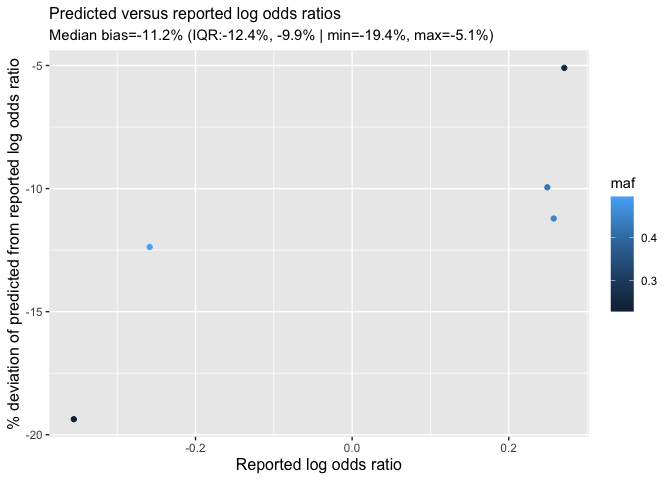
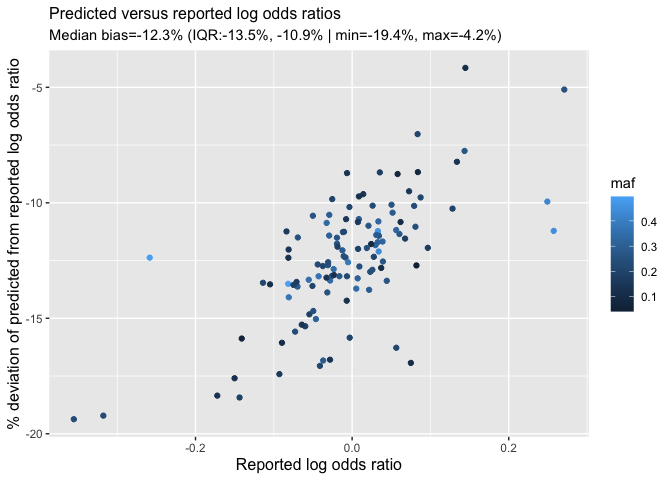
updated readme

diff --git a/README.md b/README.md
@@ -28,11 +28,10 @@ devtools::install_github("MRCIEU/mrQC")
 This package exploits three groups of SNPs: 1) **A MAF 1KG reference
 set**. This is a set of 2297 SNPs that have the same minor allele across
 the 1000 genomes super populations and that have a minor allele
-frequency between 0.1 and 0.3. These SNPs are used to check for allele
-frequency errors; 2) **GWAS catalog top hits**. These are SNPs in the
-GWAS catalog that are strongly associated with the outcome trait of
-interest; and 3) the **exposure SNPs** or genetic instruments for the
-exposure of interest.
+frequency between 0.1 and 0.3; 2) **GWAS catalog top hits**. These are
+SNPs in the GWAS catalog that are strongly associated with the outcome
+trait of interest; and 3) the **exposure SNPs** or genetic instruments
+for the exposure of interest.
 
 The package performs 4 types of checks:
 
@@ -60,14 +59,17 @@ number of retrieved hits.
 
 ``` r
 library(mrQC)
-snplist<-make_snplist(efo="glioma",trait="glioma",ref1000G_superpops=FALSE) #search on EFO abd reported trait 
+snplist<-make_snplist(efo="glioma",trait="glioma",ref1000G_superpops=FALSE)
 head(snplist)
+#> [1] "rs2736100" "rs2853676" "rs891835"  "rs4295627" "rs4977756" "rs498872"
 length(snplist)
+#> [1] 54
 ```
 
 We see that searching on the glioma EFO and glioma trait retrieves 54
-unique SNP rsids. We could also have searched on the glioma efo\_id,
-which retrieves the same SNPs as searching on the “glioma” efo.
+unique SNP rsids. We could also have searched on the glioma efo\_id
+(EFO\_0005543), which would have retrieved the same SNPs as searching on
+the “glioma” efo.
 
 ``` r
 snplist<-make_snplist(efo_id="EFO_0005543",ref1000G_superpops=FALSE) 
@@ -83,23 +85,28 @@ frequency of
 ``` r
 snplist<-make_snplist(efo="glioma",trait="glioma",ref1000G_superpops=TRUE) 
 head(snplist)
+#> [1] "rs2736100" "rs2853676" "rs891835"  "rs4295627" "rs4977756" "rs498872"
 length(snplist)
+#> [1] 2351
 ```
 
-We can also define a set of “exposure SNPs” and include this in list of
-rsids. For example, let’s assume we are conducting a Mendelian
+We can also define a set of “exposure SNPs” and include this in the list
+of rsids. For example, let’s assume we are conducting a Mendelian
 randomisation study to assess the effect of polyunsaturated fatty acid
 exposure on risk of glioma. Let’s define the “exposure SNPs”, or genetic
 instrument, as SNPs associated with polyunsaturated fatty acids with a P
 value \<5e-8. Let’s use the ieugwasr package to extract “exposure SNPs”
 for polyunsaturated fatty acids from the Open GWAS project and also add
-these to the other SNPs.
+these to the SNP list.
 
 ``` r
 instruments<-ieugwasr::tophits(id="met-d-PUFA",pval = 5e-08)
+#> API: public: http://gwas-api.mrcieu.ac.uk/
 snplist<-make_snplist(efo = "glioma",trait="glioma",ref1000G_superpops=TRUE,snplist_user=instruments$rsid)
 head(snplist)
+#> [1] "rs2736100" "rs2853676" "rs891835"  "rs4295627" "rs4977756" "rs498872"
 length(snplist)
+#> [1] 2417
 ```
 
 Our SNP list now contains the rsids for: 1) the GWAS catalog top hits,
@@ -113,7 +120,29 @@ MAC or linux operating systems.
 File<-system.file("extdata", "glioma_test_dat.txt", package = "mrQC")
 gli<-extract_snps(snplist=snplist,path_to_target_file=File,path_to_target_file_sep="\t")
 dim(gli)
+#> [1] 115  16
 head(gli)
+#>       Locus Allele1 Allele2         MAF                Geno_Counts  Subjects
+#> 1 rs6010620       G       A 0.229|0.175  2969|1698|287/1254|554|48 4954|1856
+#> 2 rs2736100       G       T 0.506|0.437 1211|2465|1273/594|900|360 4949|1854
+#> 3 rs2157719       A       G 0.450|0.511 1508|2428|1013/454|905|495 4949|1854
+#> 4 rs4977756       A       G 0.423|0.481  1669|2374|908/509|905|438 4951|1852
+#> 5 rs2853676       G       A 0.250|0.311  2795|1835|321/874|808|172 4951|1854
+#> 6 rs2297440       C       T 0.223|0.175  2668|1458|244/1039|455|42 4370|1536
+#>          p     OR OR_95._CI_l OR_95._CI_u CHROMOSOME LOCATION controls cases
+#> 1 1.13e-10 0.7009      0.6289      0.7812         20 61780283     4954  1856
+#> 2 4.28e-09 0.7722      0.7082      0.8420          5  1339516     4949  1854
+#> 3 4.57e-09 1.2936      1.1866      1.4102          9 22023366     4949  1854
+#> 4 1.21e-08 1.2831      1.1774      1.3982          9 22058652     4951  1852
+#> 5 2.16e-08 1.3112      1.1922      1.4420          5  1341547     4951  1854
+#> 6 1.49e-07 0.7278      0.6462      0.8198         20 61782743     4370  1536
+#>   eaf.controls path_to_target_file
+#> 1        0.229 glioma_test_dat.txt
+#> 2        0.506 glioma_test_dat.txt
+#> 3        0.450 glioma_test_dat.txt
+#> 4        0.423 glioma_test_dat.txt
+#> 5        0.250 glioma_test_dat.txt
+#> 6        0.223 glioma_test_dat.txt
 ```
 
 In the above example, the summary data for glioma was stored locally on
@@ -125,11 +154,31 @@ run:
 
 ``` r
 snplist<-make_snplist(efo = "thyroid carcinoma",trait="thyroid carcinoma",ref1000G_superpops=TRUE,snplist_user=instruments$rsid)
+#> Warning in gwas_catalog_hits(trait = trait): search for trait - thyroid
+#> carcinoma - returned 0 studies from the GWAS catalog
 head(snplist)
+#> [1] "rs965513"    "rs944289"    "rs966423"    "rs2439302"   "rs116909374"
+#> [6] "rs6759952"
 length(snplist)
+#> [1] 2397
 thy <- ieugwasr::associations(id="ieu-a-1082", variants=snplist,proxies=0)  
 dim(thy)
+#> [1] 146  12
 thy
+#> # A tibble: 146 x 12
+#>        se position     n chr       p    beta id    rsid  ea    nea     eaf trait
+#>     <dbl>    <int> <int> <chr> <dbl>   <dbl> <chr> <chr> <chr> <chr> <dbl> <chr>
+#>  1 0.104    2.75e7  1187 12    0.826 -0.0229 ieu-… rs11… A     G     0.200 Thyr…
+#>  2 0.0934   6.34e7  1187 3     0.526 -0.0592 ieu-… rs68… C     T     0.271 Thyr…
+#>  3 0.0891   8.64e7  1187 4     0.754  0.0279 ieu-… rs46… G     A     0.676 Thyr…
+#>  4 0.0953   9.20e6  1187 5     0.764 -0.0286 ieu-… rs14… G     A     0.256 Thyr…
+#>  5 0.106    1.25e8  1187 10    0.354 -0.0977 ieu-… rs10… T     C     0.190 Thyr…
+#>  6 0.104    1.26e7  1187 11    0.461  0.0768 ieu-… rs10… G     A     0.803 Thyr…
+#>  7 0.119    8.15e6  1187 4     0.811  0.0286 ieu-… rs12… C     T     0.144 Thyr…
+#>  8 0.0886   1.65e8  1187 4     0.717 -0.0321 ieu-… rs10… C     T     0.327 Thyr…
+#>  9 0.104    1.24e8  1187 5     0.187  0.137  ieu-… rs48… T     C     0.802 Thyr…
+#> 10 0.133    4.07e7  1187 8     0.400  0.112  ieu-… rs78… G     A     0.112 Thyr…
+#> # … with 136 more rows
 ```
 
 The make\_snplist() function returns a warning that no GWAS hits were
@@ -145,6 +194,41 @@ functions.
 ``` r
 Dat<-format_data(dat=gli,outcome="Glioma",population="European",pmid=22886559,study="GliomaScan",ncase="cases",ncontrol="controls",UKbiobank=FALSE,rsid="Locus",effect_allele="Allele1",other_allele="Allele2",or="OR",lci="OR_95._CI_l",uci="OR_95._CI_u",eaf="eaf.controls",p="p",efo="glioma")
 head(Dat)
+#>        rsid effect_allele other_allele         MAF                Geno_Counts
+#> 1 rs6010620             G            A 0.229|0.175  2969|1698|287/1254|554|48
+#> 2 rs2736100             G            T 0.506|0.437 1211|2465|1273/594|900|360
+#> 3 rs2157719             A            G 0.450|0.511 1508|2428|1013/454|905|495
+#> 4 rs4977756             A            G 0.423|0.481  1669|2374|908/509|905|438
+#> 5 rs2853676             G            A 0.250|0.311  2795|1835|321/874|808|172
+#> 6 rs2297440             C            T 0.223|0.175  2668|1458|244/1039|455|42
+#>    Subjects        p     OR OR_95._CI_l OR_95._CI_u CHROMOSOME LOCATION
+#> 1 4954|1856 1.13e-10 0.7009      0.6289      0.7812         20 61780283
+#> 2 4949|1854 4.28e-09 0.7722      0.7082      0.8420          5  1339516
+#> 3 4949|1854 4.57e-09 1.2936      1.1866      1.4102          9 22023366
+#> 4 4951|1852 1.21e-08 1.2831      1.1774      1.3982          9 22058652
+#> 5 4951|1854 2.16e-08 1.3112      1.1922      1.4420          5  1341547
+#> 6 4370|1536 1.49e-07 0.7278      0.6462      0.8198         20 61782743
+#>   ncontrol ncase   eaf path_to_target_file       lnor         se     pmid
+#> 1     4954  1856 0.229 glioma_test_dat.txt -0.3553901 0.05532116 22886559
+#> 2     4949  1854 0.506 glioma_test_dat.txt -0.2585117 0.04414629 22886559
+#> 3     4949  1854 0.450 glioma_test_dat.txt  0.2574290 0.04404068 22886559
+#> 4     4951  1852 0.423 glioma_test_dat.txt  0.2492790 0.04384619 22886559
+#> 5     4951  1854 0.250 glioma_test_dat.txt  0.2709427 0.04852824 22886559
+#> 6     4370  1536 0.223 glioma_test_dat.txt -0.3177290 0.06070188 22886559
+#>   outcome population      study UKbiobank effect_allele_confirmed open_gwas
+#> 1  Glioma   European GliomaScan     FALSE                   FALSE     FALSE
+#> 2  Glioma   European GliomaScan     FALSE                   FALSE     FALSE
+#> 3  Glioma   European GliomaScan     FALSE                   FALSE     FALSE
+#> 4  Glioma   European GliomaScan     FALSE                   FALSE     FALSE
+#> 5  Glioma   European GliomaScan     FALSE                   FALSE     FALSE
+#> 6  Glioma   European GliomaScan     FALSE                   FALSE     FALSE
+#>      efo efo_id
+#> 1 glioma     NA
+#> 2 glioma     NA
+#> 3 glioma     NA
+#> 4 glioma     NA
+#> 5 glioma     NA
+#> 6 glioma     NA
 ```
 
 Now we are ready to perform some quality checks on the summary data
@@ -162,6 +246,8 @@ population.
 Plot1<-make_plot_maf(ref_1000G="EUR",target_dat=Dat)
 Plot1
 ```
+
+<img src="man/figures/README-make_maf_plot1-1.png" width="100%" />
 
 SNPs with a red colour are SNPs with incompatible minor allele
 frequencies, i.e. the allele frequencies are above 0.5 in the target
@@ -181,6 +267,8 @@ populations.
 Plot2<-make_plot_maf(ref_1000G=c("AFR","AMR","EAS","EUR","SAS","ALL"),target_dat=Dat)
 Plot2
 ```
+
+<img src="man/figures/README-make_maf_plot2-1.png" width="100%" />
 
 All SNPs across all super populations are flagged as problematic. This
 illustrates that the function can identify problematic SNPs regardless
@@ -207,6 +295,8 @@ Plot3<-make_plot_gwas_catalog(dat=Dat,efo=unique(Dat$efo),trait="glioma")
 Plot3
 ```
 
+<img src="man/figures/README-make_gwascatalog_plot1-1.png" width="100%" />
+
 We see that there are three groups of SNPs: those flagged as showing no
 effect size conflict; those with moderate effect size conflict; and
 those with high effect size conflict. The distinction between moderate
@@ -231,13 +321,15 @@ have been incorrectly specified. The reported non-effect allele column
 is very likely the effect allele column.
 
 We can also make a plot comparing effect allele frequency between the
-outcome dataset and the GWAS catalog, which we show in the next example.
+outcome dataset and the GWAS catalog, which we show in the next
+example.
 
 ``` r
-
 Plot4<-make_plot_gwas_catalog(dat=Dat,plot_type="plot_eaf",efo=unique(Dat$efo),trait=unique(Dat$outcome))
 Plot4
 ```
+
+<img src="man/figures/README-make_gwascatalog_plot2-1.png" width="100%" />
 
 We see an inverse correlation in effect allele frequency (EAF) between
 the outcome glioma dataset and the GWAS catalog in European ancestry
@@ -251,7 +343,7 @@ This makes allowance for chance deviations in allele frequency for SNPs
 with minor allele frequency close to
 0.5.
 
-## Step 4. Check whether the reported effect size corresponds to log odds ratios
+## Step 4. Check whether the reported effect size corresponds to log odds ratios and has the expected distribution
 
 We next compare the predicted log odds ratio to the reported effect
 size, in order to identify other potential errors or issues. This step
@@ -261,12 +353,12 @@ predicted log odds ratio can be a bit slow, we restrict the glioma
 example to just the first 20 SNPs.
 
 ``` r
-Dat1<-Dat[1:5,]
-Pred<-predict_lnor_sh(dat=Dat1)
+Pred<-predict_lnor_sh(dat=Dat)
 Plot5<-make_plot_predlnor(dat=Pred)
 Plot5
 ```
 
+<img src="man/figures/README-make_plot_predlnor1-1.png" width="100%" />
 The plot shows a strong positive correlation between the predicted log
 odds ratios and the reported effect size, an intercept close to zero and
 a slope that is \>0.8. When the predicted log odds ratios and reported
@@ -281,6 +373,7 @@ Plot6<-make_plot_predlnor(dat=Pred,bias=TRUE)
 Plot6
 ```
 
+<img src="man/figures/README-make_plot_predlnor3-1.png" width="100%" />
 Overall the relative bias seems small and mostly varies from -10.9% to
 -13.5%. Since genetic effect sizes tend to be small, a relative bias of
 10% is very small in absolute terms.
@@ -293,10 +386,12 @@ expectation
 snplist<-make_snplist(efo = "kidney cancer",snplist_user=instruments$rsid)
 ukb <- data.frame(ieugwasr::associations(id="ukb-b-1316", variants=snplist,proxies=0),stringsAsFactors=FALSE)
 Ukb<-format_data(dat=ukb,outcome="Kidney cancer",population="European",pmid="ukb-b-1316",ncase=1114,ncontrol=461896,study="UKB",UKbiobank=TRUE,rsid="rsid",effect_allele="ea",other_allele="nea",lnor="beta",se="se",eaf="eaf",p="p",effect_allele_confirmed=TRUE,all_summary_stats=TRUE,ID=145,efo = "kidney cancer")
-Pred<-predict_lnor_sh(dat=Ukb[1:5,])
+Pred<-predict_lnor_sh(dat=Ukb)
 Plot5_2<-make_plot_predlnor(dat=Pred)
 Plot5_2
 ```
+
+<img src="man/figures/README-make_plot_predlnor2-1.png" width="100%" />
 
 Although there is a strong positive correlation, the slope is 400, when
 we expect a slope of 1. In fact, further investigation revealed that
@@ -310,10 +405,12 @@ the transform\_betas() function.
 
 ``` r
 Ukb2<-transform_betas(dat=Ukb,effect="lnor",effect.se="se")
-Pred2<-predict_lnor_sh(dat=Ukb2[1:5,])
+Pred2<-predict_lnor_sh(dat=Ukb2)
 Plot5_3<-make_plot_predlnor(dat=Pred2)
 Plot5_3
 ```
+
+<img src="man/figures/README-make_plot_predlnor4-1.png" width="100%" />
 
 After transforming the reported effect size to a log odds ratio scale,
 we now see a slope close to 1 for the relationship with the predicted
@@ -344,6 +441,8 @@ Plot7<-zz_plot(dat=Dat)
 Plot7
 ```
 
+<img src="man/figures/README-make_zz_plot1-1.png" width="100%" />
+
 The correlation between the Zp and Zb scores is 1, indicating very
 strong concordance between the reported P values and reported effect
 sizes in the glioma dataset for the selected SNPs. In the next example,
@@ -358,6 +457,8 @@ Dat<-format_data(dat=data.frame(luc,stringsAsFactors=F),outcome="Lung cancer",po
 Plot7_2<-zz_plot(dat=Dat)
 Plot7_2
 ```
+
+<img src="man/figures/README-make_zz_plot2-1.png" width="100%" />
 
 The correlation between the Zp and Zb scores is less than 1, suggesting
 discordance between the reported P values and reported effect sizes,
@@ -374,6 +475,8 @@ Dat<-format_data(dat=data.frame(luc,stringsAsFactors=F),outcome="Lung cancer",po
 Plot7_3<-zz_plot(dat=Dat)
 Plot7_3
 ```
+
+<img src="man/figures/README-make_zz_plot3-1.png" width="100%" />
 
 The correlation between the Zp and Zb scores is still less than 1,
 suggesting some discordance between the reported P values and reported
